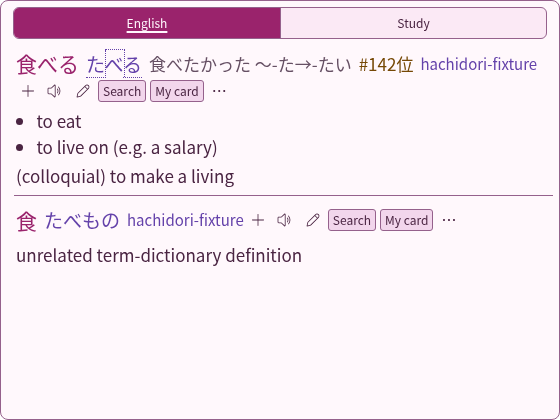
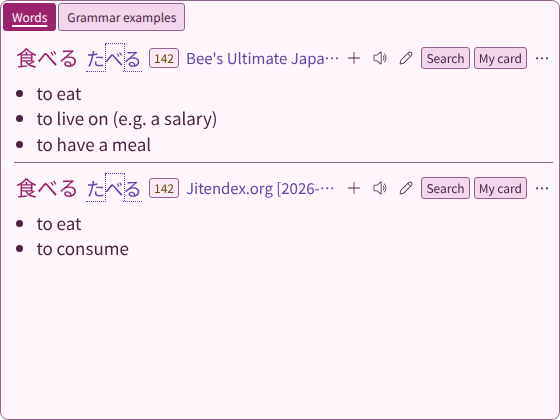
Refine Bee popup spacing, tabs and Design settings

diff --git a/themes/bee/theme.css b/themes/bee/theme.css
@@ -21,31 +21,26 @@
 .gsm-hoshidicts-popup :is(button, input, textarea, a, summary):focus-visible { outline: 2px solid #5f3ba4; outline-offset: 2px; }
 .jl-header { flex: none; }
 /* JL's 20 px title row holds the x; the tab row sits 2 px below it. */
-.jl-nav { display: flex; justify-content: flex-end; min-height: 20px; margin-right: 10px; }
+.jl-nav { display: flex; justify-content: flex-end; align-items: center; min-height: 20px; margin: 0; }
 /* The x stays top right; the kanji view's Back sits top left. */
-.jl-nav:has(> .gsm-hoshidicts-kanji-back) { justify-content: flex-start; margin: 0 0 0 10px; }
-.jl-tabs {
-  display: grid; grid-auto-flow: column; grid-auto-columns: minmax(0, 1fr);
-  margin: 6px 12px 0; border: 1px solid #95618c; border-radius: 6px; background: #fbe9f5;
-}
+.jl-nav:has(> .gsm-hoshidicts-kanji-back) { justify-content: flex-start; }
+.jl-nav > .gsm-hoshidicts-popup-close { margin-left: auto; margin-right: 10px; }
+.jl-tabs { display: flex; flex-wrap: wrap; margin: 2px 2px 0; }
 .jl-nav:empty, .jl-tabs:empty { display: none; }
 .gsm-hoshidicts-popup .gsm-hoshidicts-kanji-back {
-  margin: 0 0 2px 2px; padding: 3px 8px; background: #f2d6ec;
+  margin: 0; padding: 3px 8px; background: #f2d6ec;
   border: 1px solid #95618c; border-radius: 3px; font-size: 12px; line-height: 20px;
 }
-/* Equal-width segments share one frame, including with differently sized labels. */
 .gsm-hoshidicts-popup .jl-tab {
-  min-width: 0; margin: 0; padding: 5px 10px; background: transparent;
-  border: 0; border-inline-start: 1px solid #95618c; border-radius: 0;
+  min-width: 0; max-width: 100%; margin: 0 0 2px 2px; padding: 3px 8px; background: #f2d6ec;
+  border: 1px solid #95618c; border-radius: 3px;
   font-size: 12px; line-height: 20px; white-space: nowrap; overflow: hidden; text-overflow: ellipsis;
 }
-.gsm-hoshidicts-popup .jl-tab:first-child { border-inline-start: 0; border-radius: 5px 0 0 5px; }
-.gsm-hoshidicts-popup .jl-tab:last-child { border-radius: 0 5px 5px 0; }
-.gsm-hoshidicts-popup .jl-tab:only-child { border-radius: 5px; }
+.gsm-hoshidicts-popup .jl-tab:first-child { margin-left: 0; }
 .gsm-hoshidicts-popup .jl-tab:focus-visible { position: relative; z-index: 1; }
 /* The underline makes the selected group identifiable without colour. */
 .gsm-hoshidicts-popup .jl-tab[aria-pressed="true"] {
-  background: #9a236c; color: #fff7fc;
+  border-color: #9a236c; background: #9a236c; color: #fff7fc;
   text-decoration: underline; text-underline-offset: 3px; text-decoration-thickness: 2px;
 }
 .gsm-hoshidicts-popup .gsm-hoshidicts-popup-close {
@@ -62,12 +57,20 @@
 .jl-spelling { margin-left: 2px; color: #9a236c; font-size: 21px; }
 .jl-reading { margin-left: 7px; color: #6442aa; font-size: 19px; }
 .jl-deconj { margin-left: 7px; color: #665064; }
-.jl-frequency { margin-left: 7px; color: #754805; }
-.jl-dictionary { margin-left: 7px; color: #6442aa; font-size: 15px; }
+.jl-frequency { display: inline-flex; flex-wrap: wrap; gap: 4px; margin-left: 7px; color: #754805; }
+.jl-dictionary {
+  flex: 1 1 0; min-width: 0; max-width: 24ch; margin-left: 7px; color: #6442aa; font-size: 15px;
+  white-space: nowrap; overflow: hidden; text-overflow: ellipsis;
+}
+.jl-top > :is(.jl-spelling, .jl-reading, .jl-deconj) { flex: 0 0 auto; max-width: 100%; }
+.jl-frequency .gsm-hoshidicts-tag-frequency { padding: 0 4px; border: 1px solid #95618c; border-radius: 3px; font-size: 12px; background: #fbe9f5; }
+.gsm-hoshidicts-frequency-source { margin-right: 4px; color: #6442aa; }
 .jl-mora { border: 0 dotted #6442aa; }
 .jl-mora[data-pitch="high"] { border-top-width: 1.5px; }
 .jl-mora[data-pitch="low"] { border-bottom-width: 1.5px; }
 .jl-mora[data-transition] { margin-right: -1.5px; border-right-width: 1.5px; }
+[data-pitch-style="overline"] .jl-mora { border-style: solid; }
+[data-pitch-style="overline"] .jl-mora[data-pitch="low"] { border-bottom-width: 0; }
 .gsm-hoshidicts-popup .gsm-hoshidicts-kanji-link { padding: 0; background: none; border: 0; cursor: pointer; }
 .gsm-hoshidicts-audio-control { position: relative; display: inline-flex; margin-left: 3px; }
 .gsm-hoshidicts-entry-actions { display: inline-flex; margin-left: 3px; }
@@ -114,15 +117,16 @@
 }
 :host([data-hoshidicts-note-button="hidden"]) .gsm-hoshidicts-note-button { display: none; }
 :host([data-hoshidicts-audio-button="hidden"]) .gsm-hoshidicts-audio-control { display: none; }
-.gsm-hoshidicts-entry-actions { align-items: center; gap: 4px; flex-wrap: wrap; }
+.gsm-hoshidicts-entry-actions { flex: 0 0 auto; align-items: center; gap: 4px; }
+.gsm-hoshidicts-entry-actions > .gsm-hoshidicts-entry-actions { display: contents; margin: 0; }
 .gsm-hoshidicts-entry-actions > .gsm-hoshidicts-audio-control { margin-left: 0; }
 .gsm-hoshidicts-popup .gsm-hoshidicts-text-action-button {
-  padding: 1px 4px; background: #f2d6ec; border: 1px solid #95618c;
+  box-sizing: border-box; height: 22px; padding: 0 4px; background: #f2d6ec; border: 1px solid #95618c;
   border-radius: 3px; font-size: 12px;
 }
 .bee-more-actions { position: relative; font-size: 15px; }
-.bee-more-actions > summary { cursor: pointer; list-style: none; padding: 0 4px; }
-.bee-action-menu { padding: 4px; background: #fbe9f5; border: 1px solid #95618c; display: flex; flex-wrap: wrap; gap: 4px; }
+.bee-more-actions > summary { display: flex; align-items: center; justify-content: center; width: 22px; height: 22px; cursor: pointer; list-style: none; padding: 0; }
+.bee-action-menu { position: absolute; z-index: 2; top: 100%; right: 0; width: max-content; max-width: 280px; padding: 4px; background: #fbe9f5; border: 1px solid #95618c; display: flex; flex-wrap: wrap; gap: 4px; }
 .gsm-hoshidicts-note-form { display: grid; gap: 7px; margin: 8px 2px; padding: 8px; border: 1px solid #95618c; background: #fbe9f5; }
 .gsm-hoshidicts-note-field { display: grid; gap: 3px; font-size: 12px; color: #6442aa; }
 .gsm-hoshidicts-note-form input, .gsm-hoshidicts-note-form textarea {
@@ -138,6 +142,13 @@
 .bee-rich-content .gloss-list { margin: 0; padding-left: 1.2em; }
 .bee-rich-content .gloss-list[data-count="1"] { padding-left: 0; list-style: none; }
 .bee-rich-content :is(ul, ol) { margin-block: 0; }
+:host([data-hoshidicts-glossary-layout="compact"]) :is(.bee-rich-content, .gloss-item, .gloss-content,
+  .gloss-sc-ul[data-sc-content="glossary"] .gloss-sc-li) { display: inline; }
+:host([data-hoshidicts-glossary-layout="compact"]) .gloss-separator { display: inline; font-size: 0; opacity: 0; }
+:host([data-hoshidicts-glossary-layout="compact"]) :is(.gloss-list, .gloss-sc-ul[data-sc-content="glossary"]) { display: inline; list-style: none; padding-left: 0; }
+:host([data-hoshidicts-glossary-layout="compact"]) :is(.gloss-item, .gloss-sc-ul[data-sc-content="glossary"] .gloss-sc-li):not(:first-child)::before {
+  content: " | " / ""; white-space: pre-wrap; color: #665064;
+}
 .bee-rich-content a { color: #6442aa; cursor: pointer; text-decoration: underline; }
 .bee-rich-content .gloss-sc-table-container { max-width: 100%; overflow-x: auto; }
 .bee-rich-content .gloss-link-external-icon { display: inline-block; width: 14px; height: 14px; margin-left: 4px; vertical-align: middle; }

diff --git a/themes/jl/theme.js b/themes/jl/theme.js
@@ -59,7 +59,8 @@ export function createView(options, enhanced = false) {
   let tools = [], groupTabs = [], groupContext = null, availableDictionaries = [], revision = 0;
   // Design's pitch switch and dictionary, as the markers were last painted.
   let paintedPitch = "";
-  const pitchOptions = context => JSON.stringify([context.showPitchAccentFurigana !== false, context.pitchAccentFuriganaDictionary ?? ""]);
+  const pitchOptions = context => JSON.stringify([context.showPitchAccentFurigana !== false, context.pitchAccentFuriganaDictionary ?? "",
+    enhanced ? context.pitchAccentFuriganaStyle ?? "contour" : "contour"]);
   let customButtons = options.customButtons || [];
   const images = new Set();
   let pendingPresentation = null;
@@ -82,12 +83,13 @@ export function createView(options, enhanced = false) {
     if (context.restoreScrollTop) scroll.scrollTop = context.restoreScrollTop;
   }
   function navigation(context) {
+    if (enhanced && context.onBack) nav.append(button("gsm-hoshidicts-kanji-back", "Back", context.onBack));
     if (context.onClose) {
       const close = button("gsm-hoshidicts-popup-close", "x", context.onClose);
       close.title = "Close";
       close.setAttribute("aria-label", "Close");
       nav.append(close);
-    } else if (context.onBack) nav.append(button("gsm-hoshidicts-kanji-back", "Back", context.onBack));
+    } else if (!enhanced && context.onBack) nav.append(button("gsm-hoshidicts-kanji-back", "Back", context.onBack));
   }
   function setDefinitionBlurState(state) { scroll.dataset.definitionBlur = state; }
   function dictionaryLabel(dictionary) {
@@ -99,10 +101,16 @@ export function createView(options, enhanced = false) {
   function updateDictionaryPresentation(context, notify = true) {
     const names = new Map((context.dictionaryPresentation ?? []).map(item => [item.title, item.displayName || item.title]));
     const name = dictionary => names.get(dictionary) || dictionary;
-    for (const label of labels) label.textContent = name(label.dataset.dictionary);
+    for (const label of labels) {
+      label.textContent = name(label.dataset.dictionary);
+      if (enhanced) label.title = label.textContent;
+    }
     // JL: "#rank" with one frequency dictionary, "Name: rank, …" with several.
-    for (const { element, groups } of frequencies) {
-      element.textContent = groups.length === 1 ? `#${frequencyValue(groups[0])}`
+    for (const { element, groups, result } of frequencies) {
+      if (enhanced) element.replaceChildren(...components.createFrequencyTags(document, result,
+        context.dictionaryPresentation ?? [], Infinity, context.averageFrequency === true,
+        context.showFrequencyDictionaryNames === true, context.compactFrequencyNumbers === true));
+      else element.textContent = groups.length === 1 ? `#${frequencyValue(groups[0])}`
         : groups.map(group => `${name(group.dictionary)}: ${frequencyValue(group)}`).join(", ");
     }
     // Markers hold no controls, so a pitch option change repaints them in place
@@ -215,6 +223,7 @@ export function createView(options, enhanced = false) {
     const morae = context.showPitchAccentFurigana === false ? null
       : pitchMorae(text, pitches, context.pitchAccentFuriganaDictionary);
     element.textContent = morae ? "" : text;
+    if (enhanced) element.dataset.pitchStyle = context.pitchAccentFuriganaStyle === "overline" ? "overline" : "contour";
     if (morae) appendMorae(element, morae);
   }
   // Painted while its block is still detached; updateDictionaryPresentation repaints it.
@@ -256,7 +265,7 @@ export function createView(options, enhanced = false) {
     const groups = (term.frequencies ?? []).filter(group => group.frequencies.length);
     if (groups.length) {
       const element = node("span", "jl-frequency");
-      frequencies.push({ element, groups });
+      frequencies.push({ element, groups, result });
       line.append(element);
     }
     const actions = node("div", "gsm-hoshidicts-entry-actions");

diff --git a/README.md b/README.md
@@ -20,8 +20,12 @@ results as carousel cards. **Use** selects the bundled renderer immediately.
 Enable it under Advanced → Experimental features, then open Design.
 
 - **Bee's Theme** — Girlypop blush and violet colours on JL's compact layout,
-  with group-only tabs, formatted definitions, enlarged image previews, the
-  personal dictionary editor and custom link/Anki actions; see `themes/bee/`.
+  with JL-style group tabs, formatted definitions, enlarged image previews, the
+  personal dictionary editor and custom link/Anki actions. Entry actions share
+  one gap, long dictionary names use an ellipsis with the full name on hover,
+  and Back sits at the popup's upper left. Design supports compact glossaries,
+  frequency dictionary names, abbreviated frequency numbers, frequency averages
+  and contour/overline pitch markings; see `themes/bee/`.
 
 ## Distribution
 
